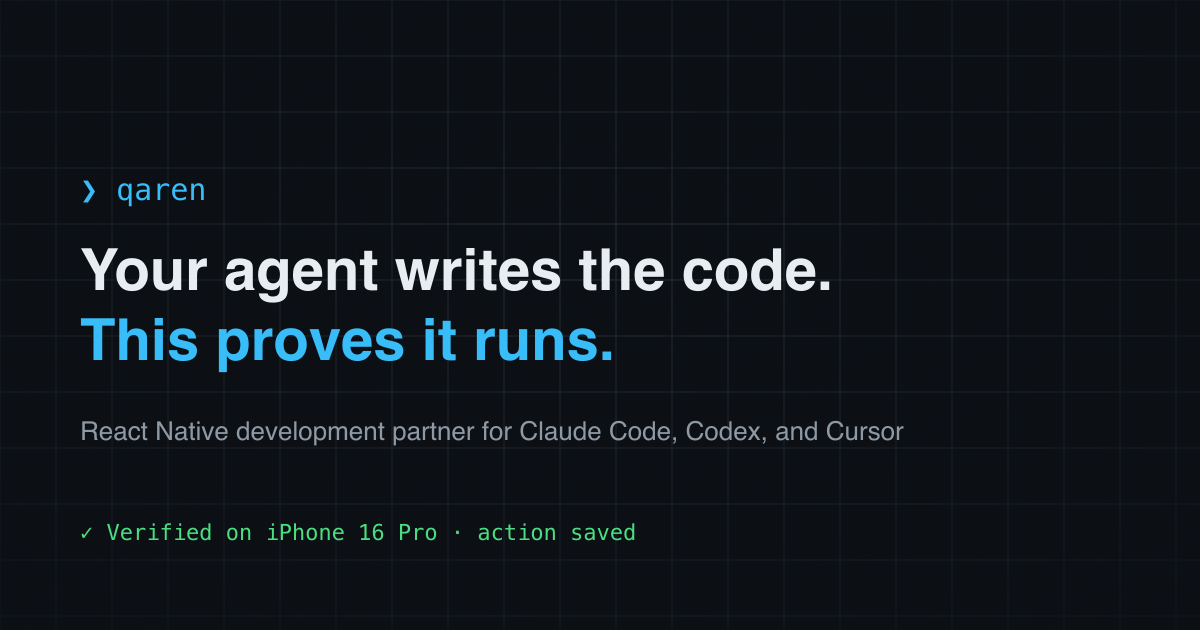
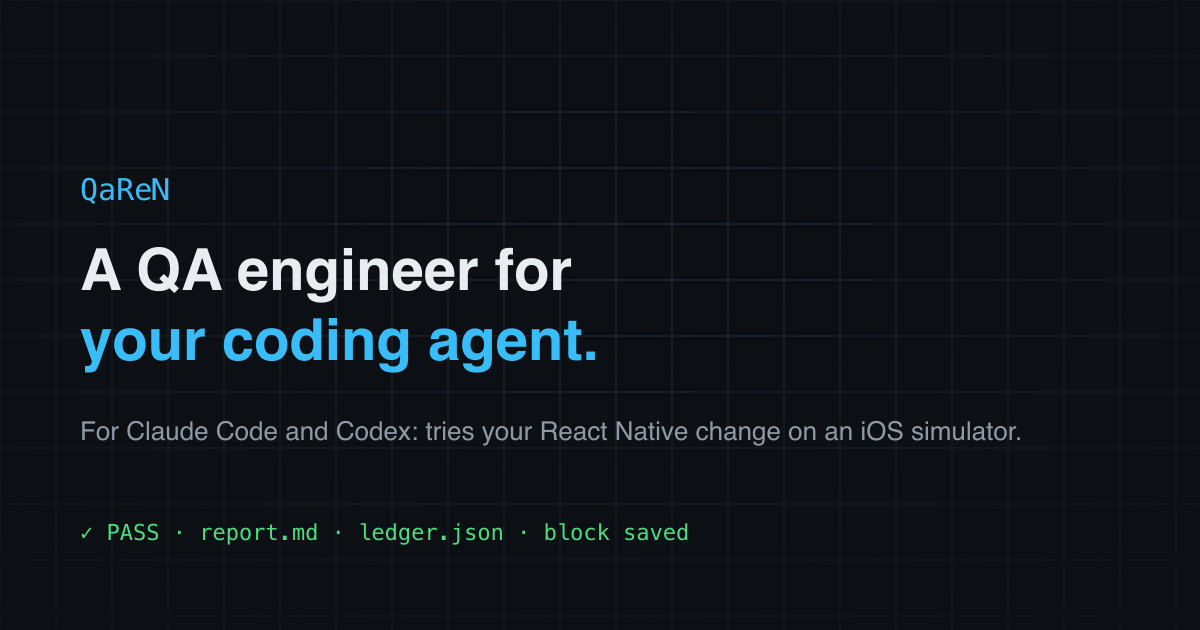
docs: present QaReN as a QA engineer for your coding agent

diff --git a/apps/docs-site/src/styles/custom.css b/apps/docs-site/src/styles/custom.css
@@ -186,6 +186,86 @@ nav.sidebar summary {
   padding-block: 3rem;
 }
 
+/* Keep the headline first on narrow screens; Starlight only reorders from 50rem up. */
+.hero > .hero-html {
+  order: 2;
+}
+
+.qa-run {
+  margin: 0;
+  width: min(100%, 24rem);
+  border: 1px solid var(--sl-color-gray-5);
+  border-radius: 12px;
+  background: var(--sl-color-gray-7);
+  box-shadow: var(--rda-glow);
+  font-family: var(--sl-font-system-mono);
+  font-size: 0.8rem;
+  overflow: hidden;
+}
+
+.qa-run__bar {
+  display: flex;
+  align-items: center;
+  gap: 0.35rem;
+  padding: 0.6rem 0.9rem;
+  background: var(--sl-color-gray-6);
+  border-bottom: 1px solid var(--sl-color-gray-5);
+}
+
+.qa-run__bar span {
+  width: 0.55rem;
+  height: 0.55rem;
+  border-radius: 50%;
+  background: var(--sl-color-gray-4);
+}
+
+.qa-run__bar code {
+  margin-inline-start: 0.5rem;
+  color: var(--sl-color-gray-2);
+  background: none;
+  font-size: inherit;
+}
+
+.qa-run__steps {
+  margin: 0;
+  padding: 0.9rem 0.9rem 0.6rem 2.6rem;
+  color: var(--sl-color-gray-1);
+}
+
+.qa-run__steps li {
+  padding-block: 0.2rem;
+}
+
+.qa-run__steps li::marker {
+  content: '✓  ';
+  color: #4ade80;
+}
+
+.qa-run__check {
+  color: var(--sl-color-white);
+}
+
+.qa-run__verdict {
+  display: flex;
+  flex-wrap: wrap;
+  align-items: baseline;
+  gap: 0.4rem 0.8rem;
+  margin: 0 0.9rem 0.9rem;
+  padding: 0.65rem 0.8rem;
+  border: 1px solid #166534;
+  border-radius: 8px;
+  background: #0b2a1a;
+}
+
+.qa-run__verdict strong {
+  color: #4ade80;
+  letter-spacing: 0.08em;
+}
+
+.qa-run__verdict span {
+  color: var(--sl-color-gray-2);
+}
+
 /* ─── Aside (tip/caution/note) refinement ─── */
 .starlight-aside {
   border-radius: 6px;

diff --git a/apps/docs-site/scripts/generate-og.ts b/apps/docs-site/scripts/generate-og.ts
@@ -17,11 +17,11 @@ const svg = `<svg xmlns="http://www.w3.org/2000/svg" width="1200" height="630">
       <stop offset="1" stop-color="#0c1015" stop-opacity="0.92"/>
     </radialGradient>
   </defs>
-  <text x="80" y="200" font-family="Menlo, monospace" font-size="30" fill="#38bdf8">❯ qaren</text>
-  <text x="80" y="290" font-family="Helvetica, Arial, sans-serif" font-size="58" font-weight="700" fill="#e8edf2">Your agent writes the code.</text>
-  <text x="80" y="360" font-family="Helvetica, Arial, sans-serif" font-size="58" font-weight="700" fill="#38bdf8">This proves it runs.</text>
-  <text x="80" y="440" font-family="Helvetica, Arial, sans-serif" font-size="26" fill="#8e99a4">React Native development partner for Claude Code, Codex, and Cursor</text>
-  <text x="80" y="540" font-family="Menlo, monospace" font-size="22" fill="#4ade80">✓ Verified on iPhone 16 Pro · action saved</text>
+  <text x="80" y="200" font-family="Menlo, monospace" font-size="30" fill="#38bdf8">QaReN</text>
+  <text x="80" y="290" font-family="Helvetica, Arial, sans-serif" font-size="58" font-weight="700" fill="#e8edf2">A QA engineer for</text>
+  <text x="80" y="360" font-family="Helvetica, Arial, sans-serif" font-size="58" font-weight="700" fill="#38bdf8">your coding agent.</text>
+  <text x="80" y="440" font-family="Helvetica, Arial, sans-serif" font-size="26" fill="#8e99a4">For Claude Code and Codex: tries your React Native change on an iOS simulator.</text>
+  <text x="80" y="540" font-family="Menlo, monospace" font-size="22" fill="#4ade80">✓ PASS · report.md · ledger.json · block saved</text>
 </svg>`;
 
 await sharp(Buffer.from(svg)).png().toFile(out);

diff --git a/README.md b/README.md
@@ -1,19 +1,40 @@
 # QaReN
 
-QA a React Native app on a simulator from a Markdown plan, and read back PASS or FAIL
-with evidence.
+**A QA engineer for your coding agent.** Claude Code, Codex or Cursor writes the React
+Native change; QaReN tries it in your app on an iOS simulator and comes back with PASS or FAIL,
+and the evidence behind it.
 
 [![CI](https://github.com/Lykhoyda/QaReN/actions/workflows/ci.yml/badge.svg)](https://github.com/Lykhoyda/QaReN/actions/workflows/ci.yml)
 [![Docs](https://img.shields.io/badge/docs-lykhoyda.github.io%2FQaReN-blue)](https://lykhoyda.github.io/QaReN/)
 [![License: MIT](https://img.shields.io/badge/license-MIT-green.svg)](LICENSE)
 
-QaReN is the `qaren` command-line tool and a plugin for Claude Code and Codex.
-`qaren check` borrows a booted iOS simulator, builds and installs the app from your
-working tree, starts Metro, walks a plan on the device, writes evidence at the artifact paths in its
-receipt and tears down what it started. `qaren pr` does the same for a
-pull request's head and tries to record the screen; `qaren publish` comments the result on the
-pull request and can push saved blocks to its branch. Eligible passing blocks are saved under `.qaren/actions/` and replayed on later
-runs.
+A coding agent checks its work with types, lint and unit tests. It does not tap through
+the app, so a screen that never appears or a flow that breaks halfway reaches review, or
+your users. QaReN is the QA engineer on your agent's team: ask your agent to QA a change,
+it writes a short plan of what to check, and QaReN runs that plan in the real app.
+
+- **A verdict, not a summary.** Every run ends in PASS, FAIL or a refusal with a typed
+  reason and the next action, as JSON for your agent and an exit code for your scripts.
+- **Evidence you can open.** Each run keeps a step-by-step ledger and a readable report.
+  A pull request run adds a screen recording when one can be captured and can post the
+  result as a comment.
+- **It tests what you changed.** QaReN builds your working tree or a pull request's head,
+  and a change to the code during the walk can never pass.
+- **Faster on every run.** Eligible passing blocks are saved and replayed next time by
+  the exact elements they used.
+
+Read the [docs](https://lykhoyda.github.io/QaReN/), or [set it up](#set-up-qaren) in your
+agent.
+
+## How it works
+
+Under the hood, QaReN is the `qaren` command-line tool and a plugin that teaches Claude
+Code, Codex and Cursor to drive it. `qaren check` borrows a booted iOS simulator, builds and
+installs the app from your working tree, starts Metro, walks a plan on the device, writes
+evidence at the artifact paths in its receipt and tears down what it started. `qaren pr` does
+the same for a pull request's head and tries to record the screen; `qaren publish`
+comments the result on the pull request and can push saved blocks to its branch. Eligible
+passing blocks are saved under `.qaren/actions/` and replayed on later runs.
 
 A plan names what to do and what to check:
 
@@ -44,9 +65,13 @@ claude plugin install qaren@qaren
 # Codex
 codex plugin marketplace add Lykhoyda/QaReN
 codex plugin add qaren@qaren
+# Cursor: add the marketplace, then install qaren from /plugin > Marketplace in
+# cursor-agent, or from Customize > Plugins in the editor
+cursor-agent plugin marketplace add https://github.com/Lykhoyda/QaReN
 ```
 
-Then, from your app's root, run `/qaren:setup` (in Codex, ask it to set up QaReN). Setup
+Then, from your app's root, run `/qaren:setup` (in Codex or Cursor, ask it to set up
+QaReN). Setup
 installs the `qaren` CLI when the matching GitHub release asset is available,
 verifying the tarball against the plugin's
 [runner manifest](packages/qaren-plugin/runner-manifest.json), runs
@@ -55,9 +80,7 @@ the first check. The [setup skill](packages/qaren-plugin/skills/setup/SKILL.md) 
 the details. If the installed plugin has no QaReN tarball yet, use the
 [source installation](#install-from-source) below.
 
-Setup prepares an iOS simulator. `qaren check` and `qaren pr` can also borrow a booted
-Android emulator with `--platform android`, given the Android SDK and a running adb
-server; see [Check a plan](packages/qaren-cli/README.md#check-a-plan).
+QaReN 2.0 supports iOS simulators on Apple silicon. Android: coming in 2.1.
 
 ### Install from source
 

diff --git a/.changeset/qaren-docs-qa-agent.md b/.changeset/qaren-docs-qa-agent.md
@@ -1,0 +1,5 @@
+---
+'qaren': patch
+---
+
+Present QaReN in the README and docs site as a QA engineer for your coding agent, with the qaren CLI reference grouped under How it works.
